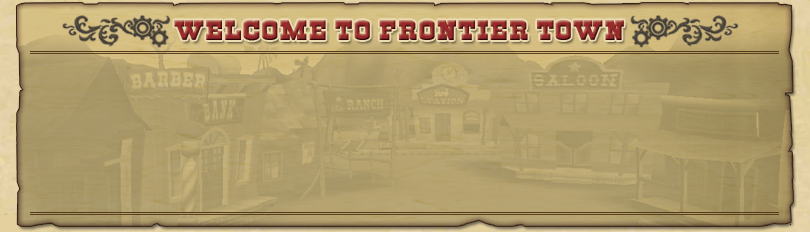
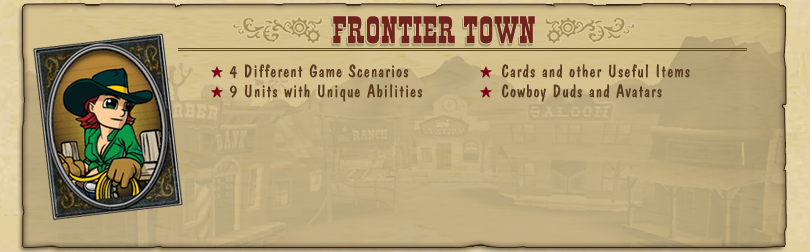
New header graphic, tweaked layout and added graphics for town pages

diff --git a/pages/town/itp.html b/pages/town/itp.html
@@ -5,28 +5,19 @@
 <link rel="stylesheet" type="text/css" href="/css/feature.css" />
 <!--#include virtual="/incl/metabot_incl.html"-->
 <!--#include virtual="/incl/header_incl.html"-->
-
-
 <!--#include virtual="/incl/town.html"-->
 
 <div id="AboutITP">
     <div id="ContentITP">
-<table width="100%" cellpading="0" cellshading="0" border="0">
-<tr><td><a href="/screenshots/2006/itp/shot.html?totem1" 
-         onclick="return show('totem1')">
-         <img src="/images/screenshots/itp/thumbs/totem1.png" 
+<table width="500px" cellpading="0" cellshading="0" border="0">
+<tr><td><a href="/screenshots/itp2.html?/images/screenshots/itp/,9,12">
+         <img src="/images/screenshots/itp/thumbs/9.png" 
          width="150" border="0" alt=""/></a></td>
-    <td><a href="/screenshots/2006/itp/shot.html?wendigo1"
-         onclick="return show('wendigo1')">
-         <img src="/images/screenshots/itp/thumbs/wendigo1.png" 
-         width="150"  border="0" alt=""/></a></td>
-     <td><a href="/screenshots/2006/itp/shot.html?forest1"
-         onclick="return show('forest1')">
-         <img src="/images/screenshots/itp/thumbs/forest1.png" 
+    <td><a href="/screenshots/itp2.html?/images/screenshots/itp/,11,12">
+         <img src="/images/screenshots/itp/thumbs/11.png" 
          width="150" border="0" alt=""/></a></td>
-     <td><a href="/screenshots/2006/itp/shot.html?genstore1"
-         onclick="return show('genstore1')">
-         <img src="/images/screenshots/itp/thumbs/genstore1.png" 
+     <td><a href="/screenshots/itp2.html?/images/screenshots/itp/,4,12">
+         <img src="/images/screenshots/itp/thumbs/4.png" 
          width="150" border="0" alt=""/></a></td>
 </tr>
 </table>
@@ -35,49 +26,27 @@
 <div id="FeatureTop"></div>
 <div id="FeatureMid">
     <div id="ContentMid">
-        <table width="100%" cellpadding="6px" cellspacing="0" border="0" alt="Buffalo Rider">
-            <tr><td><img src="/images/town/itp/unit_buffalo.png">
+        <table width="100%" cellpadding="6px" cellspacing="0" border="0">
+            <tr><td valign="top" width="120px"><img src="/images/town/itp/scen_forest.png" alt="Forest Guardians">
                 </td>
-                <td><img src="/images/town/itp/unit_buffalo_title.gif"><br/>
-                The <b>Buffalo Rider</b> attacks by ramming into her enemies.
-                the further away she starts from her target, the more powerful 
-                her attack.  Woe betide anyone caught between a charging Buffalo 
-                Rider and a hard place.<br/><br/>
-                She has good range and power, but cannot attack flying units.
-                <br/><br/>
-                <b>Special Power:</b>If she starts at least four tiles away when 
-                attacking, she will push her target backwards out of their current spot.
+                <td valign="top"><img src="/images/town/scenarios.gif"><br/>
+                Text
+                </td>
+             	<td valign="top" width="120px"><img src="/images/town/itp/unit_storm.png" alt="Storm Caller">
+                </td>
+                <td valign="top"><img src="/images/town/units.gif"><br/>
+                Text
                 </td>
             </tr>
-            <tr><td><img src="/images/town/itp/bs_storm.png" alt="Storm Caller">
+            <tr><td valign="top" width="120px"><img src="/images/town/itp/card_eagle.png" alt="Eagle Eye">
                 </td>
-                <td><img src="/images/town/itp/bs_storm_title.gif"><br/>
-                The <b>Storm Caller</b> has a formidable ally in Mother Nature and 
-                calls down a bolt of lightning to attack his enemies.  When he's 
-                around, lightning can and does strike twice.<br/><br/>
-                Watch where you're aimin' though, the chaining lighting doesn't 
-                discriminate between friend and foe.<br/><br/>
-                <b>Special Power: </b> His lightning attack chains
-                at 80% to units standing next to his main target and at 50% to 
-                units standing next to those.
+                <td valign="top"><img src="/images/town/cards.gif"><br/>
+                Text
                 </td>
-            </tr>
-            <tr><td><img src="/images/town/itp/scen_wendigo.png" alt="Wendigo Attack">
+             	<td valign="top" width="120px"><img src="/images/town/itp/badge_chief.png" alt="Potlach Chief">
                 </td>
-                <td><img src="/images/town/itp/scen_wendigo_title.gif"><br/>
-                Beware the <b>Wendigo Attack</b>!  When darkness falls, your
-                troops must stand in the <b>Petroglyph of Protection</b> to survive.  
-                Only those 
-                who hold the <b>Sacred Talisman</b> can roam free and unscathed when 
-                the Deadly Wendigo appears.
-                </td>
-            </tr>
-            <tr><td><img src="/images/town/itp/scen_forest.png"  alt="Forest Guardians">
-                </td>
-                <td><img src="/images/town/itp/scen_forest_title.gif"><br/>
-                As one of the <b>Forest Guardians</b>, you must stand next the
-                saplings into order to nuture their growth.  In order to save the
-                Forest, co-operate with other teams to fend off the <b>Logging Robots</b>. 
+                <td valign="top"><img src="/images/town/badges.gif"><br/>
+                Text
                 </td>
             </tr>
         </table>

diff --git a/pages/town/frontier.html b/pages/town/frontier.html
@@ -11,22 +11,15 @@
 
 <div id="AboutFrontier">
     <div id="ContentFrontier">
-<table width="100%" cellpading="0" cellshading="0" border="0">
-<tr><td><a href="/screenshots/2006/frontier/shot.html?goldrush1" 
-         onclick="return show('goldrush1')">
-         <img src="/images/screenshots/frontier/thumbs/goldrush1.png" 
+<table width="500px" cellpading="0" cellshading="0" border="0">
+<tr><td><a href="/screenshots/index2.html?/images/screenshots/frontier/,2,12">
+         <img src="/images/screenshots/frontier/thumbs/2.png" 
          width="150" border="0" alt=""/></a></td>
-    <td><a href="/screenshots/2006/frontier/shot.html?cattle1"
-         onclick="return show('cattle1')">
-         <img src="/images/screenshots/frontier/thumbs/cattle1.png" 
-         width="150"  border="0" alt=""/></a></td>
-     <td><a href="/screenshots/2006/frontier/shot.html?genstore2"
-         onclick="return show('genstore2')">
-         <img src="/images/screenshots/frontier/thumbs/genstore2.png" 
+     <td><a href="/screenshots/index2.html?/images/screenshots/frontier/,10,12">
+         <img src="/images/screenshots/frontier/thumbs/10.png" 
          width="150" border="0" alt=""/></a></td>
-     <td><a href="/screenshots/2006/frontier/shot.html?select_unit"
-         onclick="return show('select_unit')">
-         <img src="/images/screenshots/frontier/thumbs/select_unit.png" 
+     <td><a href="/screenshots/index2.html?/images/screenshots/frontier/,7,12">
+         <img src="/images/screenshots/frontier/thumbs/7.png" 
          width="150" border="0" alt=""/></a></td>
 </tr>
 </table>
@@ -35,49 +28,27 @@
 <div id="FeatureTop"></div>
 <div id="FeatureMid">
     <div id="ContentMid">
-        <table width="100%" cellpadding="6px" cellspacing="0" border="0" alt="Steam Gunman">
-            <tr><td><img src="/images/town/frontier/unit_steam.png">
+        <table width="100%" cellpadding="6px" cellspacing="0" border="0">
+            <tr><td valign="top" width="120px"><img src="/images/town/frontier/scen_gold.png" alt="Gold Rush">
                 </td>
-                <td><img src="/images/town/frontier/unit_steam_title.gif"><br/>
-                The <b>Steam Gunman</b> can make his way around the board with ease 
-                and packs a decent punch to boot.  He's a tough customer with an 
-                attack bonus versus both range and human units.  You'll
-                definitely want him fer any scenario that involves carryin'
-                things around.<br/><br/>
-                Play a Giddy Up card on 'im and you can get that last nugget
-                clear across the board and into yer claim just in time
-                for the win.
+                <td valign="top"><img src="/images/town/scenarios.gif"><br/>
+                Text
+                </td>
+             	<td valign="top" width="120px"><img src="/images/town/frontier/unit_steam.png" alt="Steam Gunman">
+                </td>
+                <td valign="top"><img src="/images/town/units.gif"><br/>
+                Text
                 </td>
             </tr>
-            <tr><td><img src="/images/town/frontier/bs_codger.png" alt="Old Codger">
+            <tr><td valign="top" width="120px"><img src="/images/town/frontier/card_hollow.png" alt="Hollow Point">
                 </td>
-                <td><img src="/images/town/frontier/bs_codger_title.gif"><br/>
-                The <b>Old Codger</b> is a sturdy Big Shot and all around 
-                ornery feller.  
-                He can shoot down a Dirigible in a single shot and he's also got 
-                a bonus versus steam units.  He's tough as nails 
-                to boot with extra defense from both ground and air.<br/><br/>
-                Put an artillery on his team and you've got a juggernaut 
-                that packs a powerful punch.
-                <br/><br/>
-                <b>Special Power:</b> He rests his target's tick counter to zero 
-                when he blasts 'em with a blunderbuss.
+                <td valign="top"><img src="/images/town/cards.gif"><br/>
+                Text
                 </td>
-            </tr>
-            <tr><td><img src="/images/town/frontier/scen_cattle.png" alt="Cattle Rustlin">
+             	<td valign="top" width="120px"><img src="/images/town/frontier/badge_buck.png" alt="Buckaroo">
                 </td>
-                <td><img src="/images/town/frontier/scen_cattle_title.gif"><br/>
-                There's been reports of some <b>Cattle Rustlin'</b> goin' on.
-                Claim them bovines back fer yerself from those no good varmints!  
-                Use yer Big Shot to brand the cows before the time runs out!
-                </td>
-            </tr>
-            <tr><td><img src="/images/town/frontier/scen_gold.png"  alt="Gold Rush">
-                </td>
-                <td><img src="/images/town/frontier/scen_gold_title.gif"><br/>
-                Down on yer luck no more... in <b>Gold Rush</b>, those nuggets
-                keep springin' up everywhere!
-                It's time te skedaddle off and grab the gold!
+                <td valign="top"><img src="/images/town/badges.gif"><br/>
+                Text
                 </td>
             </tr>
         </table>

diff --git a/pages/screenshots/index.html b/pages/screenshots/index.html
@@ -9,7 +9,7 @@
 //<![CDATA[
 //Specify some parameters about the thumbnail gallery
 var ImgLibrary = "/images/screenshots/frontier/";
-var myImgPage = "index2";
+var myImgPage = "index2.html";
 var screenshotsTotal = 12;
 var screenshotsPerPage = 9;
 var columns = 3;

diff --git a/pages/screenshots/itp.html b/pages/screenshots/itp.html
@@ -9,7 +9,7 @@
 //<![CDATA[
 //Specify some parameters about the thumbnail gallery
 var ImgLibrary = "/images/screenshots/itp/";
-var myImgPage = "itp2";
+var myImgPage = "itp2.html";
 var screenshotsTotal = 12;
 var screenshotsPerPage = 9;
 var columns = 3;

diff --git a/pages/css/frontier.css b/pages/css/frontier.css
@@ -10,13 +10,13 @@
 	margin: 0px;
 	padding:0px;
 	width: 810px;
-	height: 232px;
+	height: 252px;
 }
 
 #ContentFrontier {
     position: absolute;
-	top: 70px;
-	left: 50px;
+	top: 110px;
+	left: 220px;
 	margin: 0px;
 	padding: 0px;
 	width: 700px;

diff --git a/pages/css/itp.css b/pages/css/itp.css
@@ -10,13 +10,13 @@
 	margin: 0px;
 	padding:0px;
 	width: 810px;
-	height: 232px;
+	height: 252px;
 }
 
 #ContentITP {
     position: absolute;
-	top: 70px;
-	left: 50px;
+	top: 110px;
+	left: 220px;
 	margin: 0px;
 	padding: 0px;
 	width: 700px;
